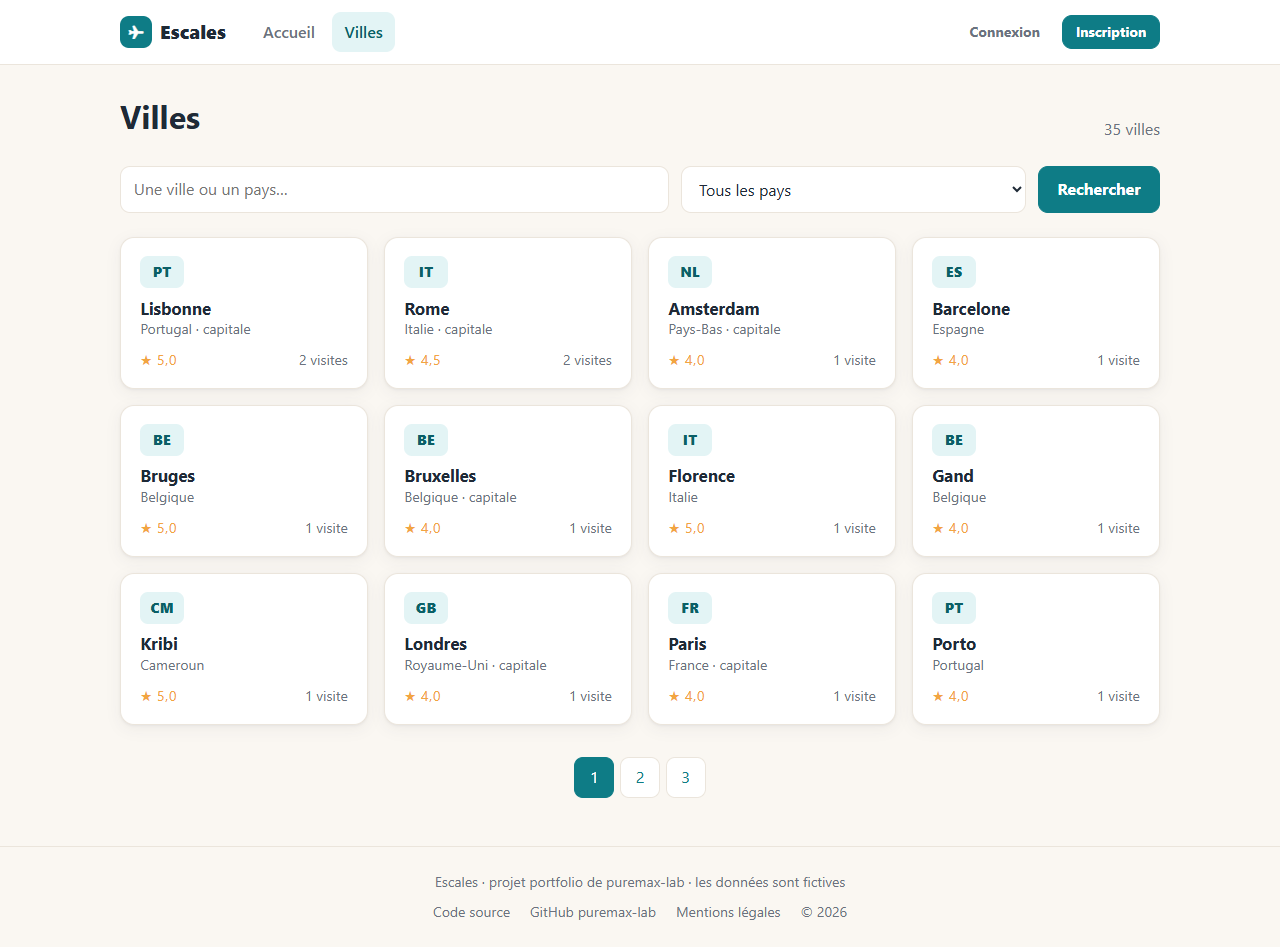
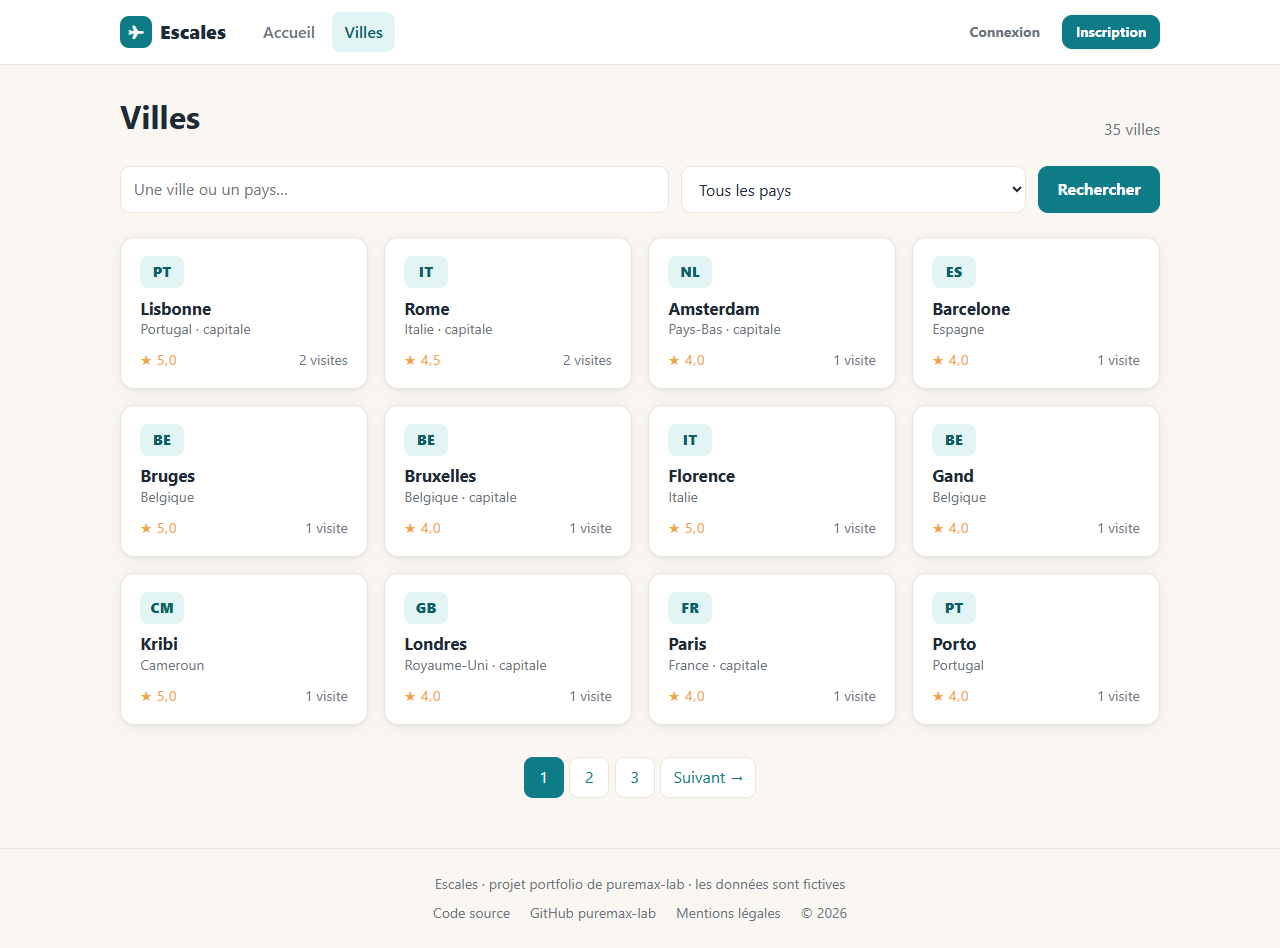
Refresh the screenshots for the world city search and pagination

diff --git a/README.md b/README.md
@@ -61,9 +61,9 @@ The app itself is a shared travel journal: visitors search cities and read revie
 |---|---|
 | ![Cities](docs/screenshots/cities.png) | ![City page](docs/screenshots/city.png) |
 
-| My journal | Form validation |
+| My journal | Adding a city from anywhere in the world |
 |---|---|
-| ![Journal](docs/screenshots/journal.png) | ![Form](docs/screenshots/form.png) |
+| ![Journal](docs/screenshots/journal.png) | ![World city search](docs/screenshots/form.png) |
 
 | Mobile: home | Mobile: profile |
 |---|---|
